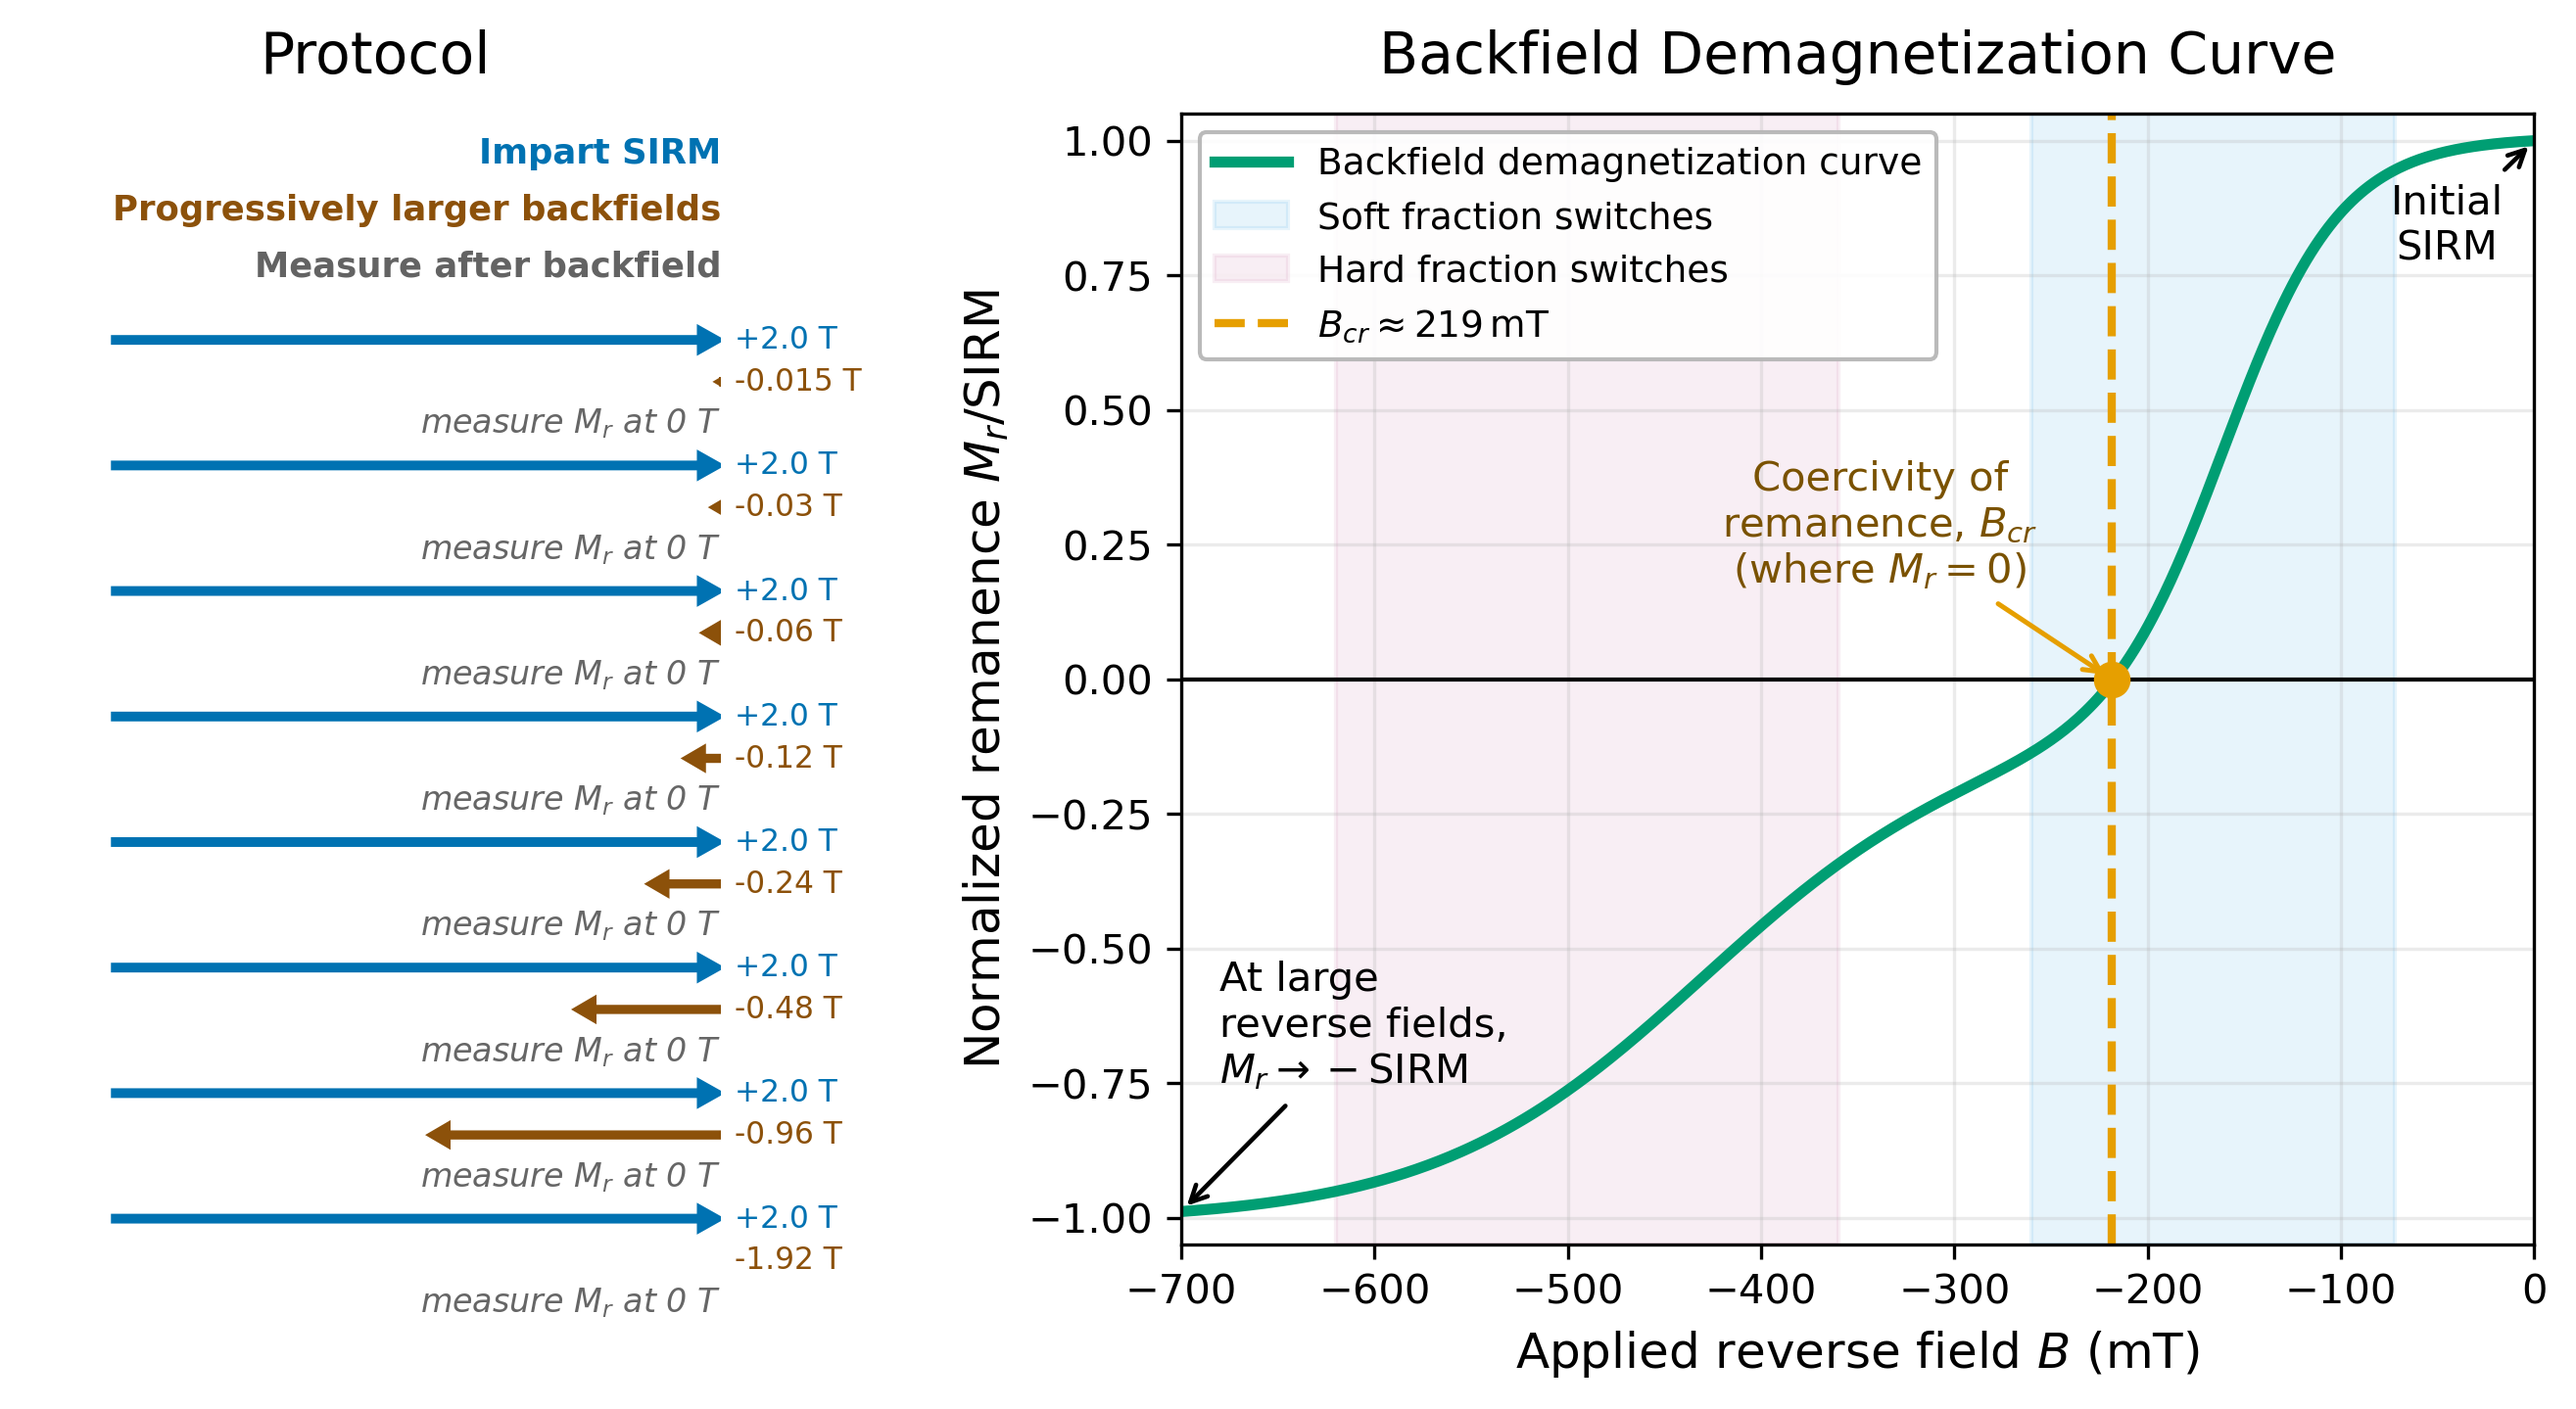
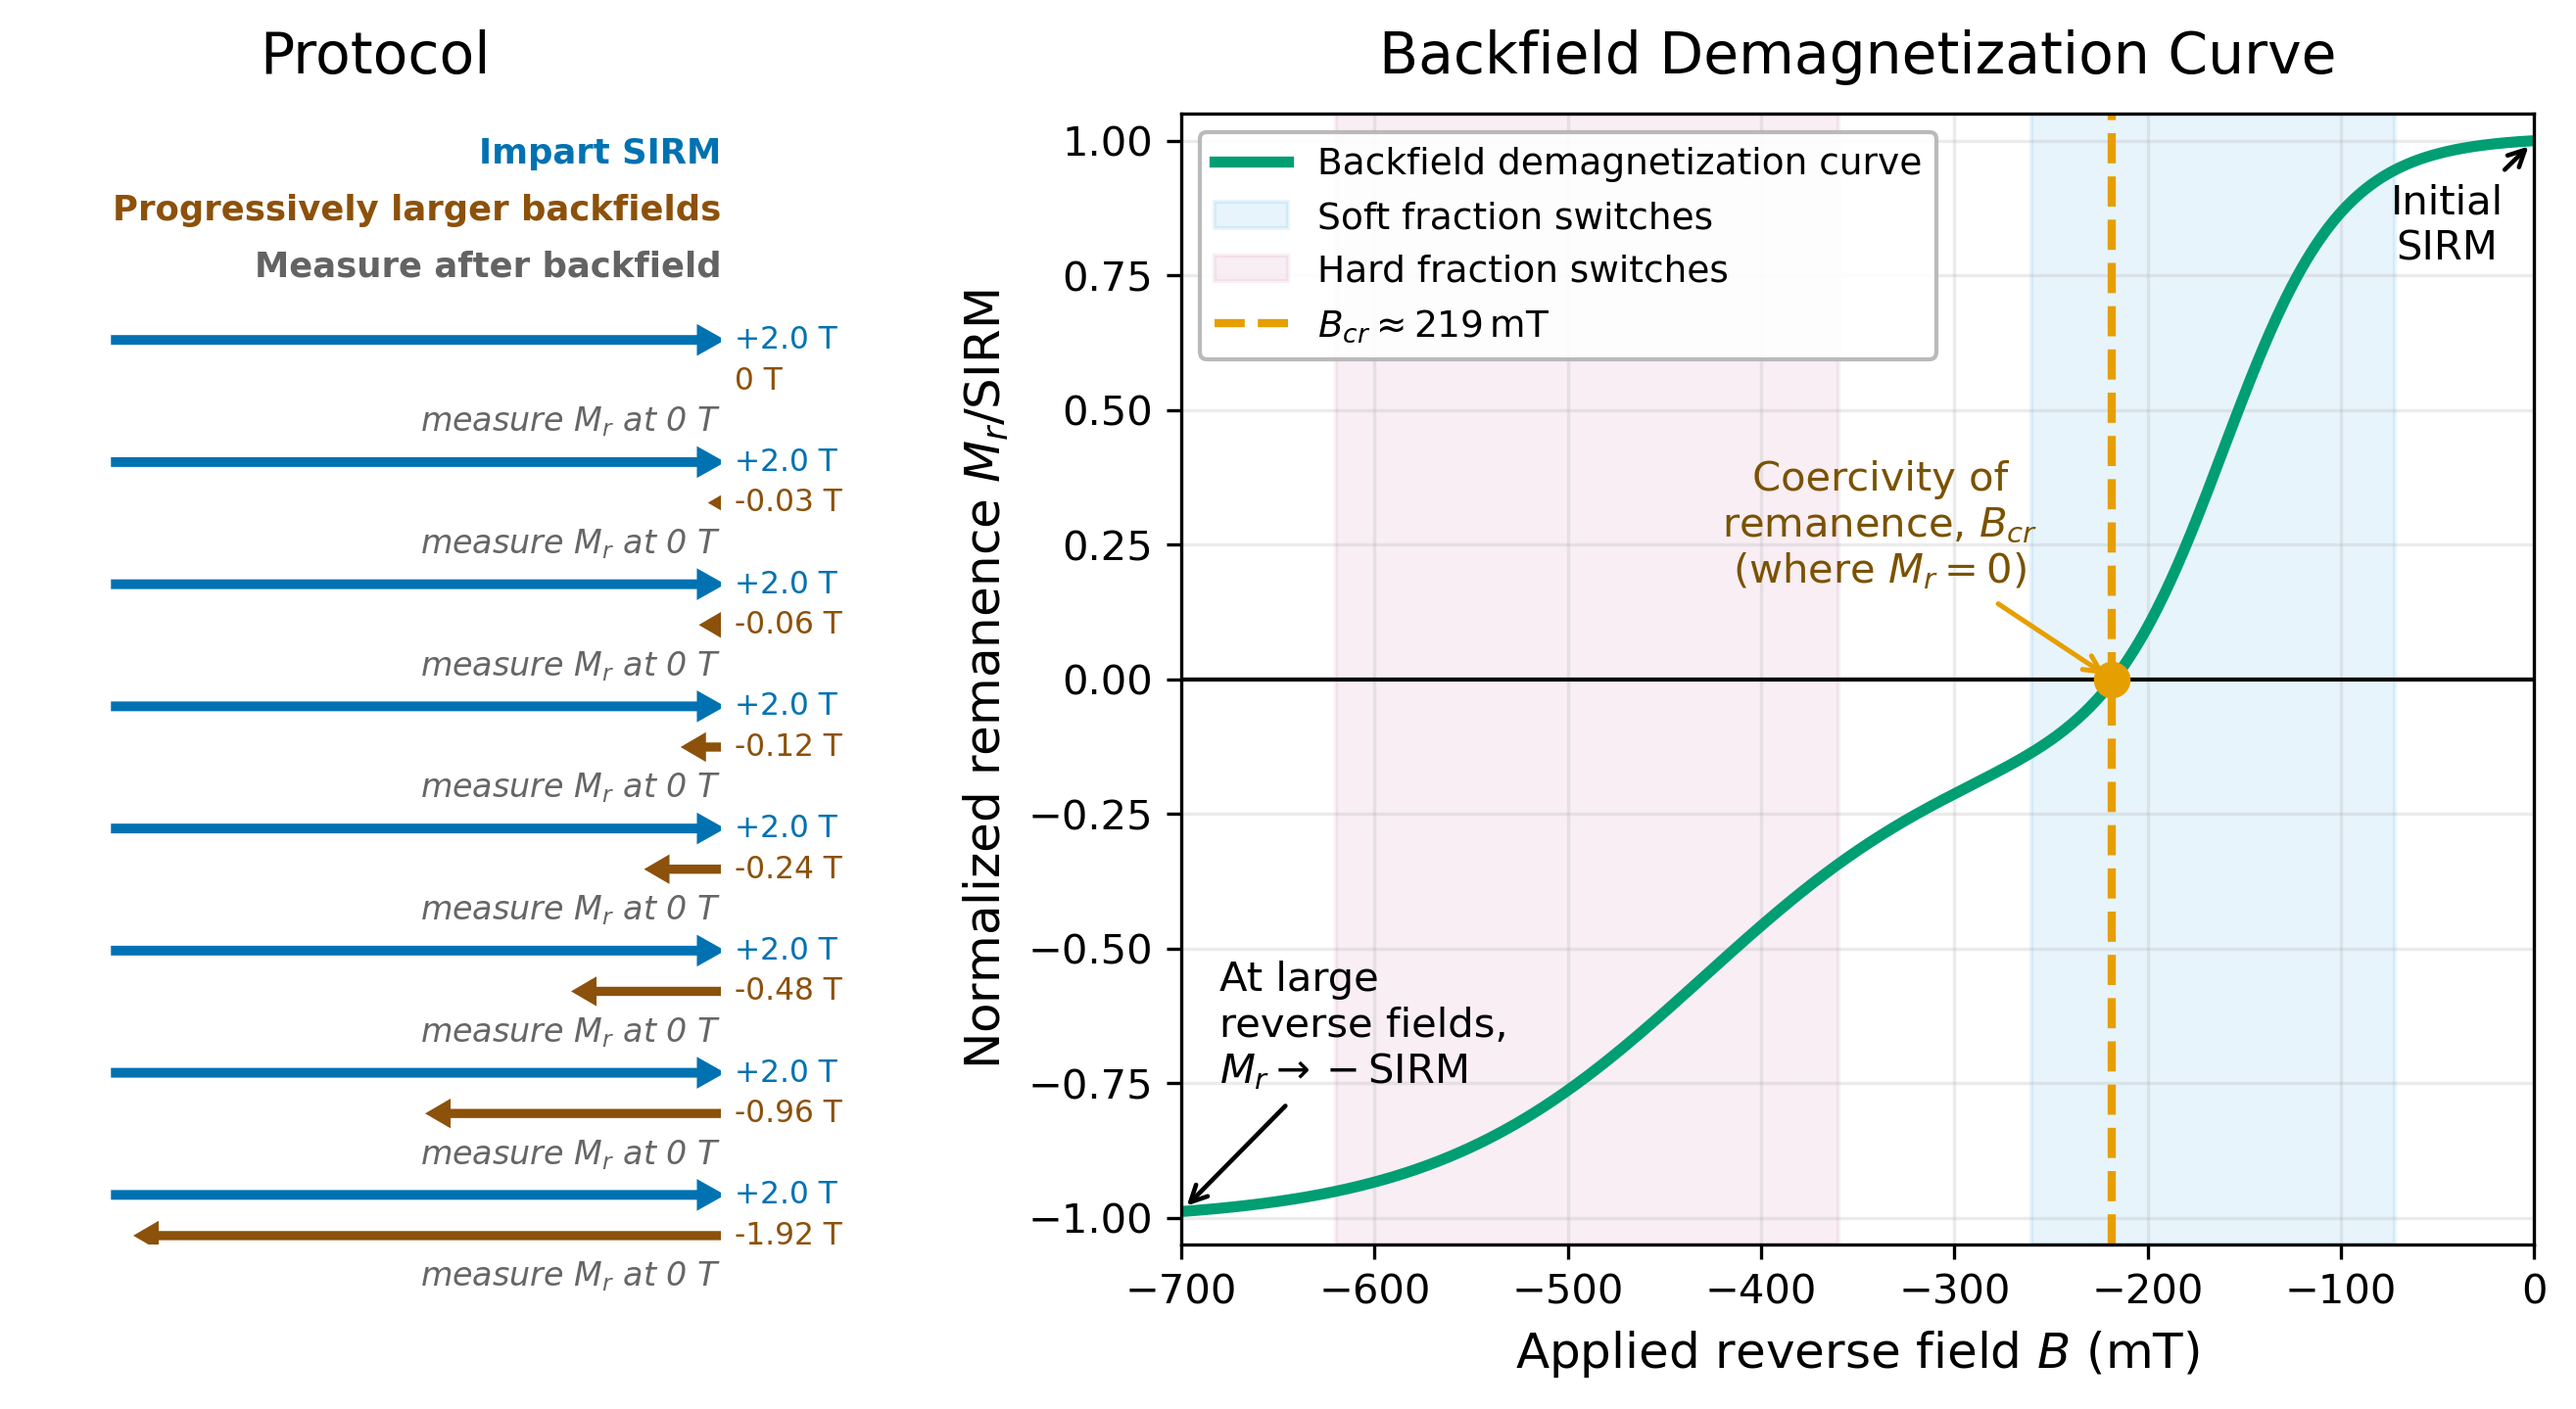
small updates to backfield based on observations during teaching

Changed region(s): [[0.0312, 0.3669, 0.343, 0.9479], [0.0312, 0.2752, 0.3118, 0.3669], [0.2806, 0.2446, 0.3118, 0.2752]]

diff --git a/scripts/chapter5_backfield.py b/scripts/chapter5_backfield.py
@@ -1,4 +1,3 @@
-#@title Backfield Demagnetization (Conceptual)
 import numpy as np
 import matplotlib.pyplot as plt
 
@@ -35,9 +34,9 @@ axL.axis("off")
 axL.set_title("Protocol", fontsize=14, pad=10, loc="center")
 
 n_pairs = 8
-y0, dy = 0.8, 0.037
+y0, dy = 0.8, 0.036
 blue_field_T = 2.0                   # scale reference for blue arrow (+2.0 T)
-brown_fields_mT = np.array([-15, -30, -60, -120, -240, -480, -960, -1920], dtype=float)
+brown_fields_mT = np.array([-0, -30, -60, -120, -240, -480, -960, -1920], dtype=float)
 brown_fields_T = brown_fields_mT / 1000.0
 
 # Place caption text right-justified, then measure width to set arrow length
@@ -75,19 +74,20 @@ for k in range(n_pairs):
         width=0.0050, head_width=0.022, head_length=0.032,
         length_includes_head=True, color="#0072B2"
     )
-
+    
+    if k > 0:
     # Reverse backfield step (left-pointing)
-    axL.arrow(
-        x_right, y_brown, -brown_lens[k], 0,
-        width=0.0045, head_width=0.020, head_length=0.028,
-        length_includes_head=True, color="#8C510A"
-    )
+        axL.arrow(
+            x_right, y_brown, -brown_lens[k], 0,
+            width=0.0045, head_width=0.020, head_length=0.028,
+            length_includes_head=True, color="#8C510A"
+        )
 
     # Field labels past arrow tips
     axL.text(x_right + 0.02, y_blue, f"+{blue_field_T:.1f} T",
-             fontsize=7.5, color="#0072B2", va="center", ha="left")
+            fontsize=7.5, color="#0072B2", va="center", ha="left")
     axL.text(x_right + 0.02, y_brown, f"{brown_fields_T[k]:.3g} T",
-             fontsize=7.5, color="#8C510A", va="center", ha="left")
+            fontsize=7.5, color="#8C510A", va="center", ha="left")
 
     # Measure step — right-aligned
     axL.text(1.0, y_meas, r"measure $M_r$ at 0 T",
